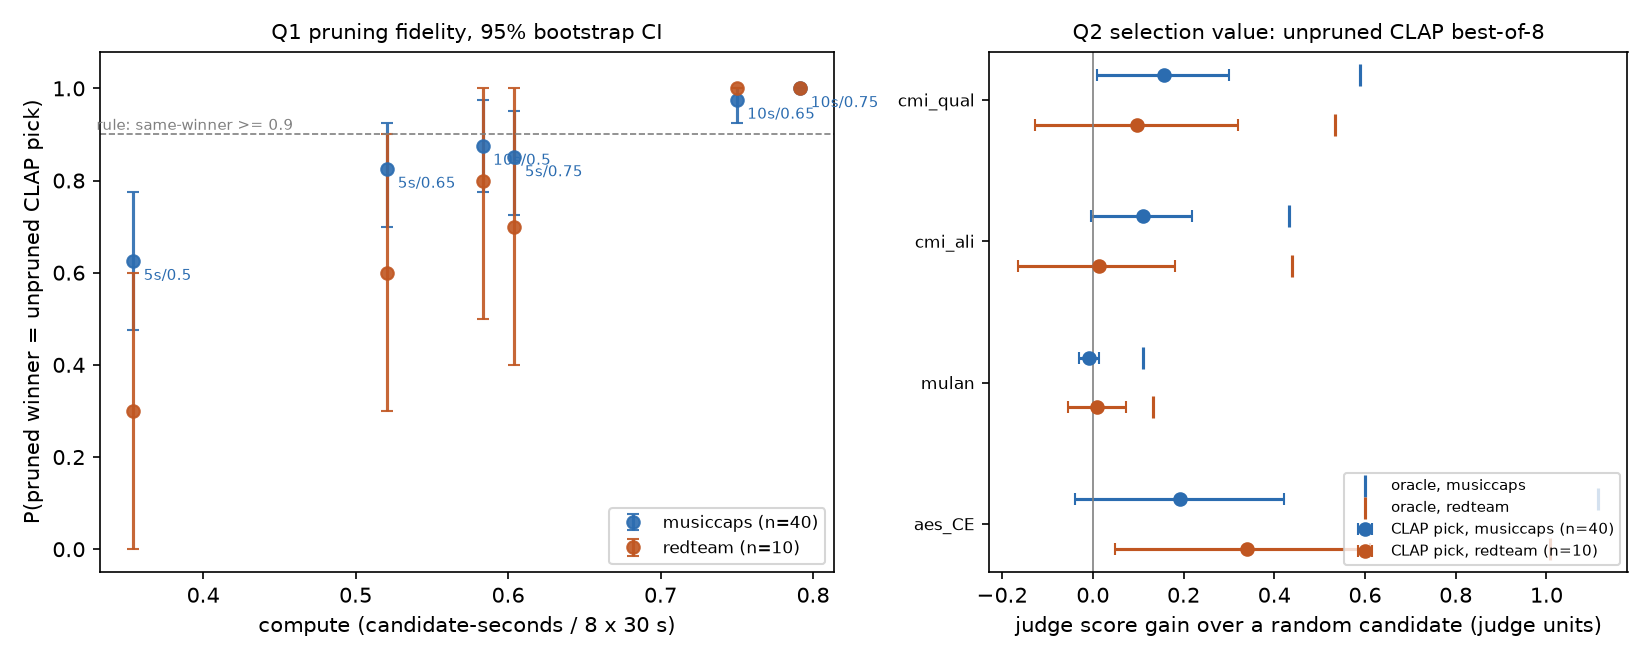
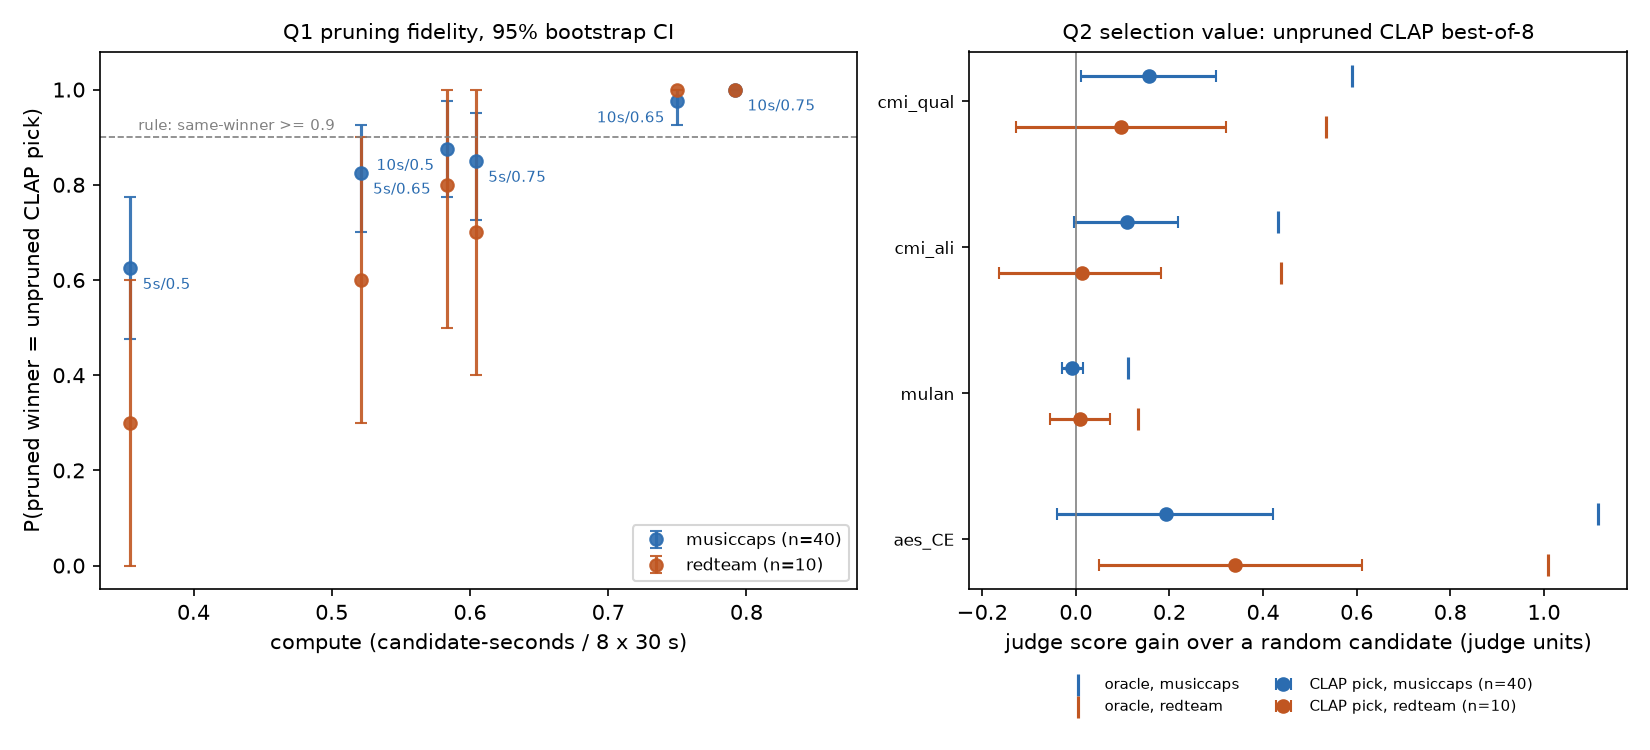
frontier figure: fix label overlap, move Q2 legend below the axes
Claude-Session: https://claude.ai/code/session_01LxDHA3WS9a2BcwFnW94tWk

diff --git a/torch/frontier.py b/torch/frontier.py
@@ -67,7 +67,7 @@ def plot(res, path):
     matplotlib.use("Agg")
     import matplotlib.pyplot as plt
     colors = {"musiccaps": "#2b6cb0", "redteam": "#c05621"}
-    fig, (q1, q2) = plt.subplots(1, 2, figsize=(11, 4.4), gridspec_kw={"width_ratios": [1.15, 1]})
+    fig, (q1, q2) = plt.subplots(1, 2, figsize=(11, 5.0), gridspec_kw={"width_ratios": [1.15, 1]})
     for s, c in colors.items():
         pts = [x for x in res["schedules"] if s in x["sets"] and x["first"] is not None]
         if not pts:
@@ -79,14 +79,17 @@ def plot(res, path):
         q1.errorbar(xs, ys, yerr=err, fmt="o", color=c, capsize=3, alpha=0.9, label=f"{s} (n={res['n'][s]})")
         if s == "musiccaps":
             for x, xv, yv in zip(pts, xs, ys):
-                q1.annotate(f"{x['first']}s/{x['keep']}", (xv, yv), fontsize=7, xytext=(5, -9),
-                            textcoords="offset points", color=c)
+                left = (x["first"], x["keep"]) in {(10, 0.5), (10, 0.65)}   # neighbours on the right
+                q1.annotate(f"{x['first']}s/{x['keep']}", (xv, yv), fontsize=7, color=c,
+                            xytext=(-6, -10) if left else (6, -10), textcoords="offset points",
+                            ha="right" if left else "left")
     q1.axhline(SAME_WINNER_MIN, color="gray", lw=0.8, ls="--")
-    q1.text(0.33, SAME_WINNER_MIN + 0.01, f"rule: same-winner >= {SAME_WINNER_MIN}", fontsize=7, color="gray")
+    q1.text(0.36, SAME_WINNER_MIN + 0.015, f"rule: same-winner >= {SAME_WINNER_MIN}", fontsize=7, color="gray")
     q1.set_xlabel("compute (candidate-seconds / 8 x 30 s)")
     q1.set_ylabel("P(pruned winner = unpruned CLAP pick)")
     q1.set_title("Q1 pruning fidelity, 95% bootstrap CI", fontsize=10)
     q1.set_ylim(-0.05, 1.08)
+    q1.set_xlim(right=0.88)
     q1.legend(fontsize=8, loc="lower right")
     judges = list(res["selection"])
     for k, (s, c) in enumerate(colors.items()):
@@ -103,7 +106,7 @@ def plot(res, path):
     q2.invert_yaxis()
     q2.set_xlabel("judge score gain over a random candidate (judge units)")
     q2.set_title("Q2 selection value: unpruned CLAP best-of-8", fontsize=10)
-    q2.legend(fontsize=7, loc="lower right")
+    q2.legend(fontsize=7, loc="upper center", bbox_to_anchor=(0.5, -0.14), ncol=2, frameon=False)
     fig.tight_layout()
     fig.savefig(path, dpi=150)
 
